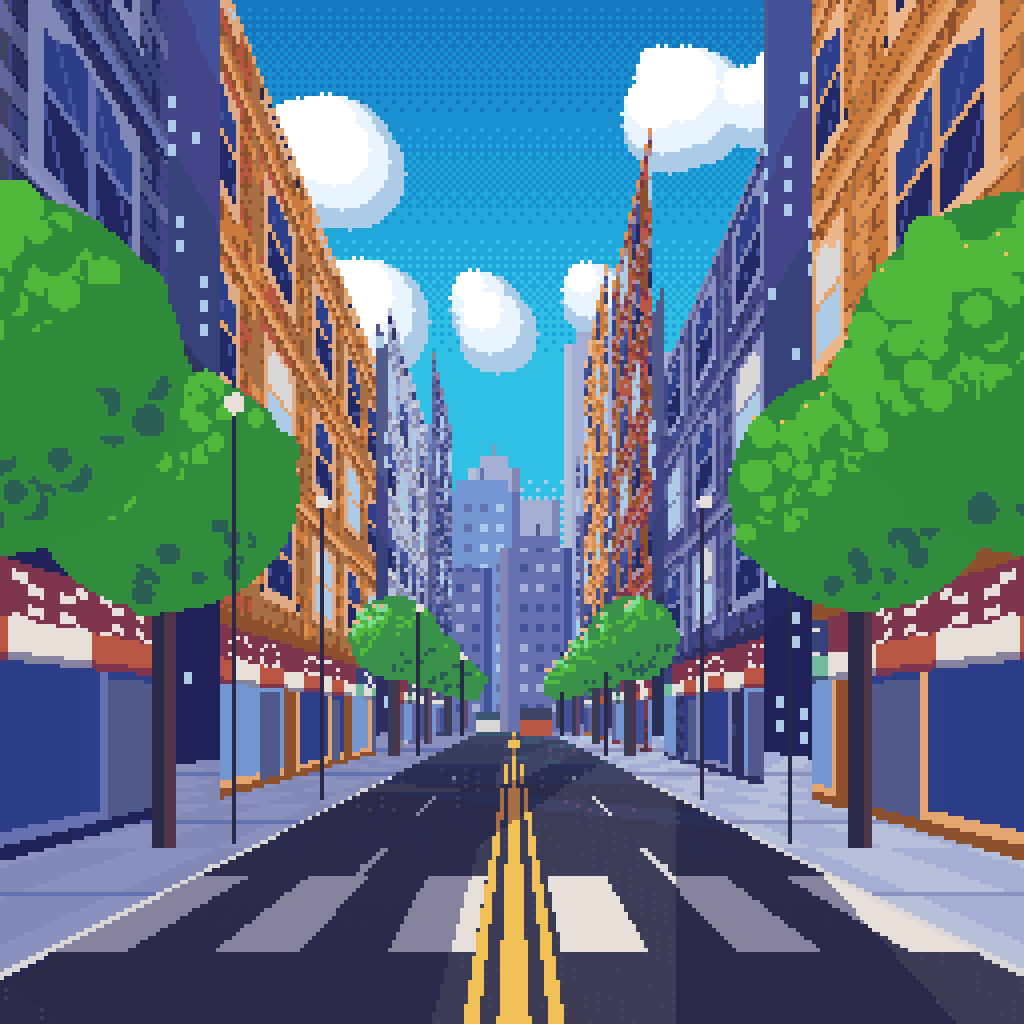
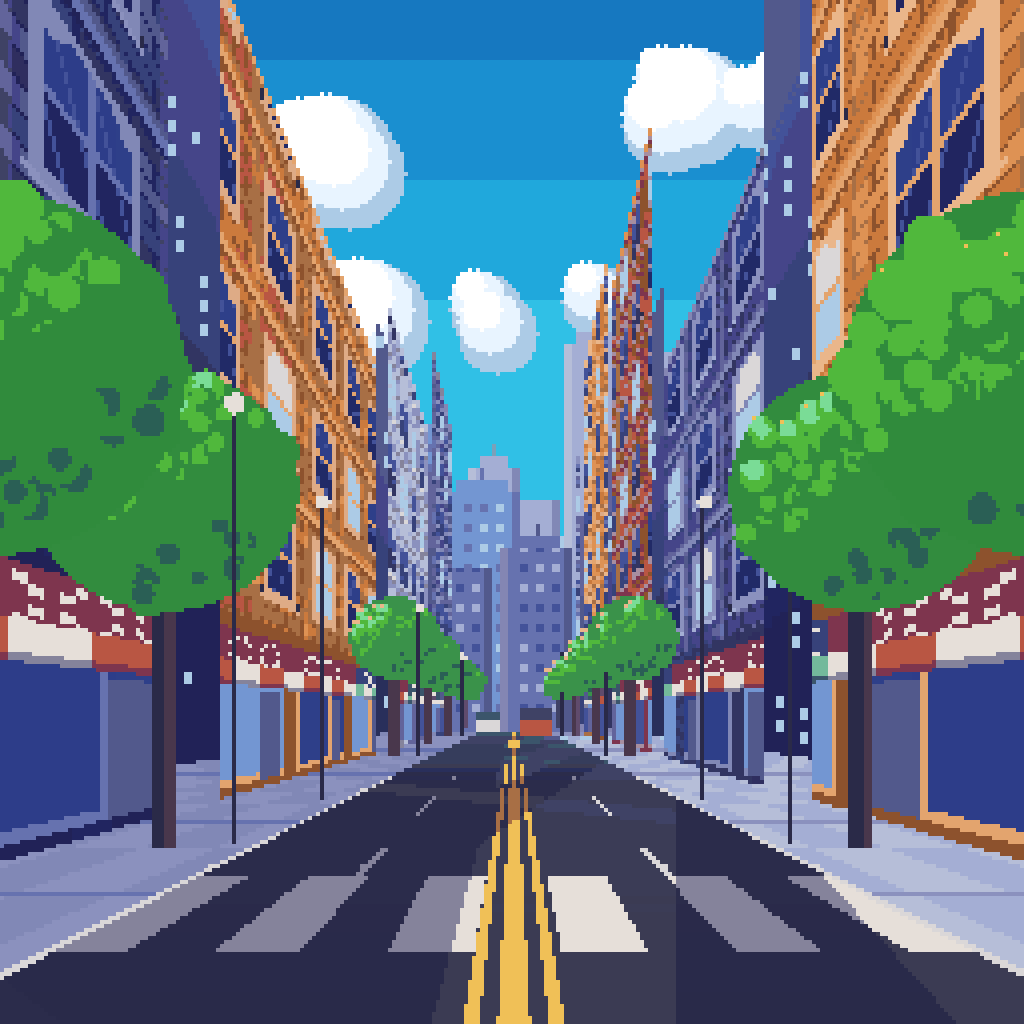
Add four HD-2D rules to style guide + Obsidian; remove dithering from street scripts
Claude-Session: https://claude.ai/code/session_018A3EjUJwum2xaBpGm7gsrV

diff --git a/games/background/street/make_street.py b/games/background/street/make_street.py
@@ -13,7 +13,7 @@ BAY=[[0,8,2,10],[12,4,14,6],[3,11,1,9],[15,7,13,5]]
 for y in range(H):
     t=min(1,y/VY); pos=t*(len(SKY)-1); i=min(int(pos),len(SKY)-2); fr=pos-i
     for x in range(W):
-        px[x,y]=SKY[i+(1 if fr>BAY[y%4][x%4]/16 else 0)] if y<=VY else HORIZON
+        px[x,y]=SKY[i+(1 if fr>=.5 else 0)] if y<=VY else HORIZON
 def put(x,y,c):
     if 0<=x<W and 0<=y<H: px[x,y]=c
 def disc(cx,cy,r,col):
@@ -138,7 +138,6 @@ for x in range(W):
         X=(x-VX)*z/F; ax=abs(X)
         if ax<3.0:
             c=hx("#3b3354") if int(z*.8+X*.5)%7 else hx("#453b5e")
-            if hsh(x,y)<.06: c=lerp(c,(255,255,255),.06)
             if ax<.08 or .17<ax<.25: c=hx("#f2c14e")
             elif 1.4<ax<1.5 and (z%4)<2: c=hx("#d8d0e0")
             if 3.4<z<5.0 and int((X+3)/.55)%2==0: c=hx("#e2dce8")

diff --git a/games/background/street/make_street_day.py b/games/background/street/make_street_day.py
@@ -13,7 +13,7 @@ BAY=[[0,8,2,10],[12,4,14,6],[3,11,1,9],[15,7,13,5]]
 for y in range(H):
     t=min(1,y/VY); pos=t*(len(SKY)-1); i=min(int(pos),len(SKY)-2); fr=pos-i
     for x in range(W):
-        px[x,y]=SKY[i+(1 if fr>BAY[y%4][x%4]/16 else 0)] if y<=VY else HORIZON
+        px[x,y]=SKY[i+(1 if fr>=.5 else 0)] if y<=VY else HORIZON
 def put(x,y,c):
     if 0<=x<W and 0<=y<H: px[x,y]=c
 def disc(cx,cy,r,col):
@@ -138,7 +138,6 @@ for x in range(W):
         X=(x-VX)*z/F; ax=abs(X)
         if ax<3.0:
             c=hx("#3a3a52") if int(z*.8+X*.5)%7 else hx("#42425c")
-            if hsh(x,y)<.06: c=lerp(c,(255,255,255),.06)
             if ax<.08 or .17<ax<.25: c=hx("#f2c14e")
             elif 1.4<ax<1.5 and (z%4)<2: c=hx("#d8d0e0")
             if 3.4<z<5.0 and int((X+3)/.55)%2==0: c=hx("#e2dce8")

diff --git a/games/style-guide/STYLE_GUIDE.md b/games/style-guide/STYLE_GUIDE.md
@@ -63,3 +63,13 @@ The pixel pictures and the painted room are two different looks. Until Bailey sa
 ## Estimates (not measured)
 - The art looks about 3-4 screen pixels per art pixel; the hero is about 60% of the picture height.
   Treat these as starting guesses, to be tuned when we compare.
+
+
+## HD-2D rules (Bailey, 2026-11-28)
+Source: his HD-2D note ("tattoos" in it was a voice-to-text slip for "photos", meaning the reference screenshots; no tattoos).
+1. **Clean line work.** Crisp, continuous edges; no fuzzy or broken lines.
+2. **Sharp silhouette.** The outline shape reads first, even as a flat black shape.
+3. **Flat shading, minimal dithering.** Hard tone steps, no dotted gradients (sky bands are hard bands now).
+4. **Distinct pixel clusters.** Group pixels into readable clumps (leaves, bricks, windows), not noise.
+Test rule: try a new detail on minimal clothing / a plain body first, then add complex gear.
+Palette is no longer strictly limited (Bailey: break that rule if something else helps).

diff --git a/games/mha-rpg/obsidian/MHA RPG/Style Guide.md b/games/mha-rpg/obsidian/MHA RPG/Style Guide.md
@@ -27,3 +27,13 @@ Full text and the three reference pictures live in the repo: `games/style-guide/
 Inside any one picture, everything shares one style.
 
 Back to [[MHA RPG - Home]] · Plan: [[Pixel Hero Plan]]
+
+
+## HD-2D rules (Bailey, 2026-11-28)
+Source: his HD-2D note ("tattoos" in it was a voice-to-text slip for "photos", meaning the reference screenshots; no tattoos).
+1. **Clean line work.** Crisp, continuous edges; no fuzzy or broken lines.
+2. **Sharp silhouette.** The outline shape reads first, even as a flat black shape.
+3. **Flat shading, minimal dithering.** Hard tone steps, no dotted gradients (sky bands are hard bands now).
+4. **Distinct pixel clusters.** Group pixels into readable clumps (leaves, bricks, windows), not noise.
+Test rule: try a new detail on minimal clothing / a plain body first, then add complex gear.
+Palette is no longer strictly limited (Bailey: break that rule if something else helps).
